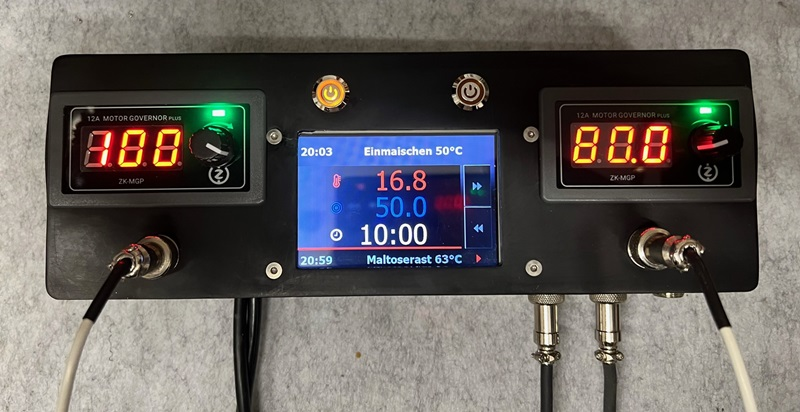
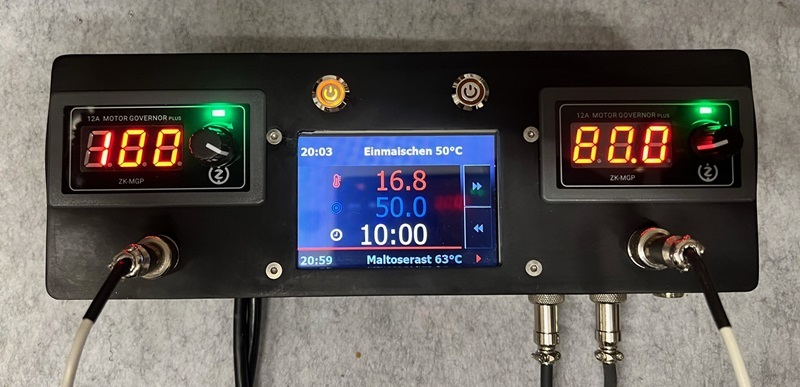
V 1.34

diff --git a/docs/de/Case/Fregga/FreggaCase.md b/docs/de/Case/Fregga/FreggaCase.md
@@ -36,7 +36,7 @@ Gewindeeinsätze M5 sowie M3S\
 [Das PWM Modul](https://www.amazon.de/dp/B0B7X6Z34Z/?coliid=I1KLJXGJL47O5M&colid=I7GQB171JGLX&psc=1&ref_=cm_sw_r_cp_ud_lstpd_56603DDHC44WFNJ0BFM4)\
 [Das Relaismodul](https://www.amazon.de/dp/B07PY7LF9Z/?coliid=IHJD818Z5259W&colid=I7GQB171JGLX&psc=1&ref_=cm_sw_r_cp_ud_lstpd_J3D8XGQB34CH8FXPD06G)
 
-## Biler
+## Bilder
 
 ![FreggaCase](/docs/img/Fregga-1.jpg)
 ![FreggaCase](/docs/img/Fregga-2.jpg)
